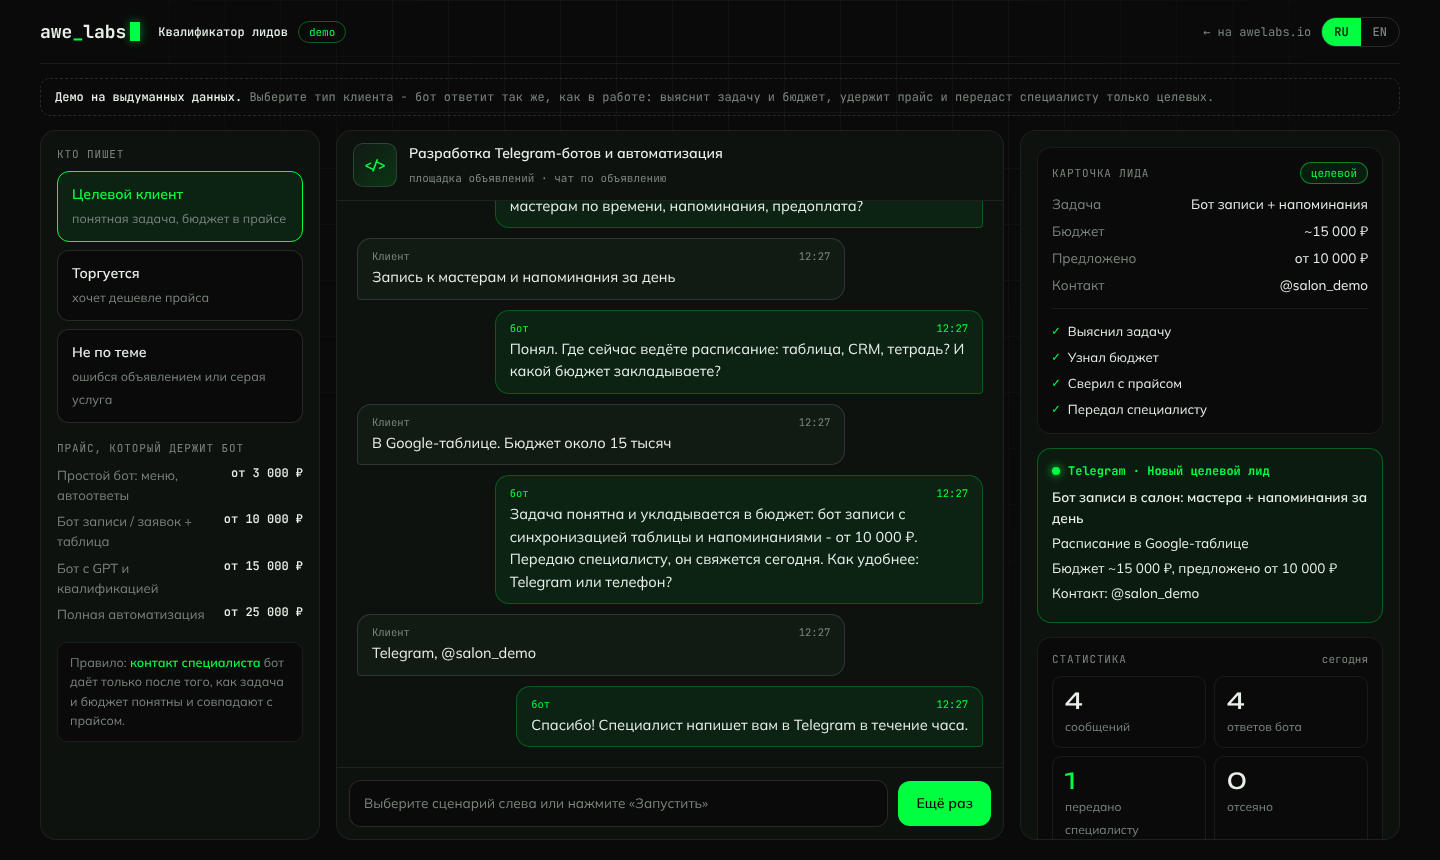
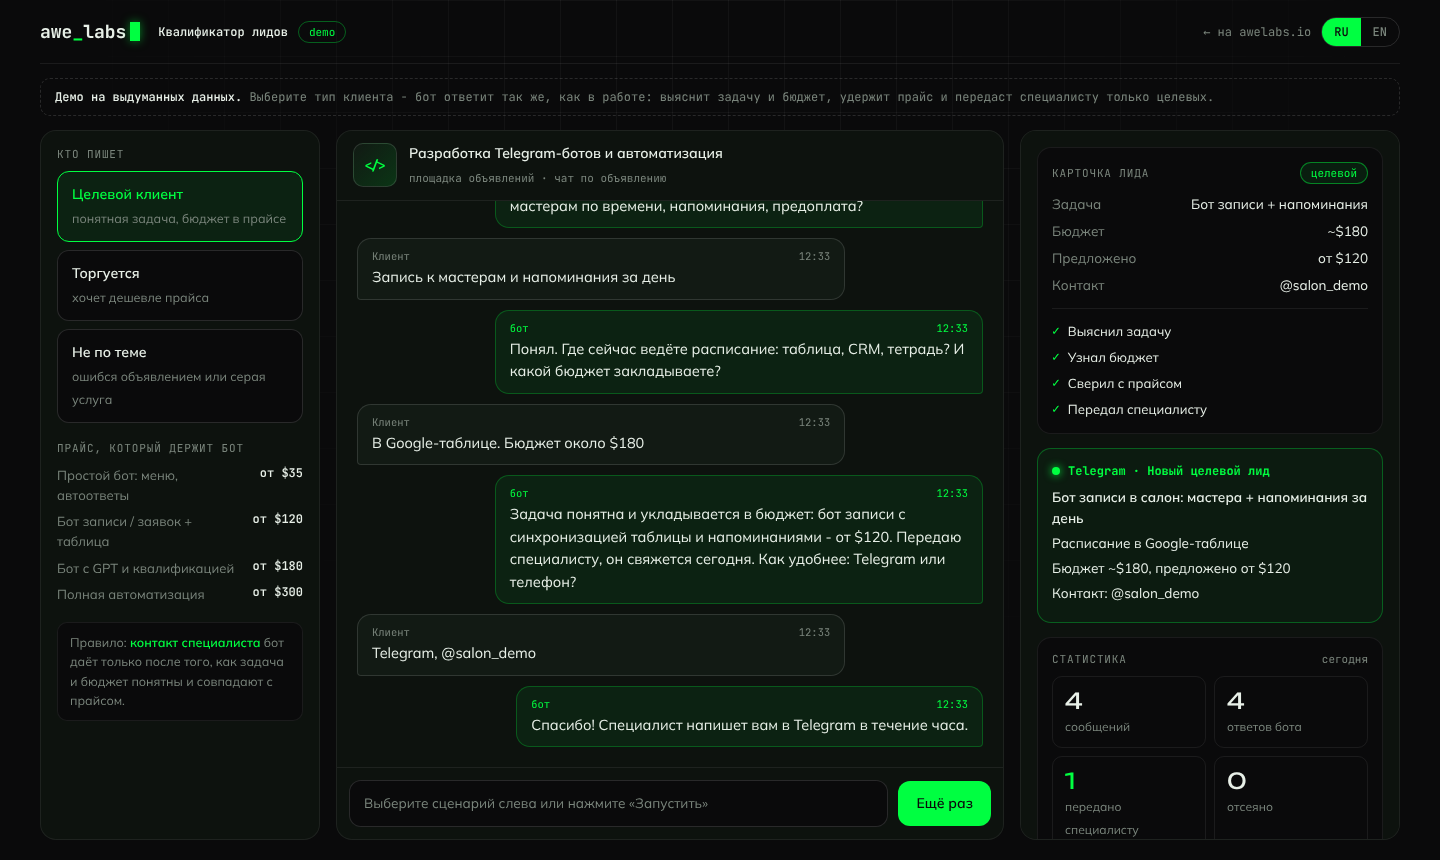
Prices in USD

diff --git a/index.html b/index.html
@@ -170,33 +170,33 @@ client:"Клиент",bot:"бот",dayL:"Сегодня",
 chk:["Выяснил задачу","Узнал бюджет","Сверил с прайсом","Передал специалисту"],
 hot:"целевой",warm:"тёплый",off:"не целевой",
 nHot:"Новый целевой лид",nWarm:"Новый лид, проверить",nOff:"Специалиста не беспокоили",
-rate:[["Простой бот: меню, автоответы","от 3 000 ₽"],["Бот записи / заявок + таблица","от 10 000 ₽"],["Бот с GPT и квалификацией","от 15 000 ₽"],["Полная автоматизация","от 25 000 ₽"]],
+rate:[["Простой бот: меню, автоответы","от $35"],["Бот записи / заявок + таблица","от $120"],["Бот с GPT и квалификацией","от $180"],["Полная автоматизация","от $300"]],
 S:[
  {id:"hot",b:"Целевой клиент",s:"понятная задача, бюджет в прайсе",lvl:"hot",
   d:[["c","Здравствуйте! Нужен бот для записи клиентов в салон"],
      ["b","Добрый день! Расскажите, что бот должен уметь: запись к мастерам по времени, напоминания, предоплата?",{t:"Бот записи"},[0]],
      ["c","Запись к мастерам и напоминания за день"],
      ["b","Понял. Где сейчас ведёте расписание: таблица, CRM, тетрадь? И какой бюджет закладываете?",{t:"Бот записи + напоминания"}],
-     ["c","В Google-таблице. Бюджет около 15 тысяч"],
-     ["b","Задача понятна и укладывается в бюджет: бот записи с синхронизацией таблицы и напоминаниями - от 10 000 ₽. Передаю специалисту, он свяжется сегодня. Как удобнее: Telegram или телефон?",{b:"~15 000 ₽",o:"от 10 000 ₽"},[1,2]],
+     ["c","В Google-таблице. Бюджет около $180"],
+     ["b","Задача понятна и укладывается в бюджет: бот записи с синхронизацией таблицы и напоминаниями - от $120. Передаю специалисту, он свяжется сегодня. Как удобнее: Telegram или телефон?",{b:"~$180",o:"от $120"},[1,2]],
      ["c","Telegram, @salon_demo"],
      ["b","Спасибо! Специалист напишет вам в Telegram в течение часа.",{c:"@salon_demo"},[3]]],
-  n:["Бот записи в салон: мастера + напоминания за день","Расписание в Google-таблице","Бюджет ~15 000 ₽, предложено от 10 000 ₽","Контакт: @salon_demo"]},
+  n:["Бот записи в салон: мастера + напоминания за день","Расписание в Google-таблице","Бюджет ~$180, предложено от $120","Контакт: @salon_demo"]},
  {id:"warm",b:"Торгуется",s:"хочет дешевле прайса",lvl:"warm",
   d:[["c","Сколько стоит бот с GPT, чтобы отвечал клиентам?"],
-     ["b","Добрый день! Бот с GPT и квалификацией заявок - от 15 000 ₽. Где он будет отвечать и сколько обращений в день?",{t:"Бот с GPT"},[0]],
-     ["c","На площадке объявлений, штук 20 в день. А за 5 тысяч сделаете?"],
-     ["b","За 5 000 ₽ реально сделать простого бота: меню и готовые автоответы, без GPT. Бот с GPT - от 15 000 ₽, это стоимость работы, скидок на неё нет. Какой вариант ближе?",{b:"5 000 ₽"},[1,2]],
+     ["b","Добрый день! Бот с GPT и квалификацией заявок - от $180. Где он будет отвечать и сколько обращений в день?",{t:"Бот с GPT"},[0]],
+     ["c","На площадке объявлений, штук 20 в день. А за $60 сделаете?"],
+     ["b","За $60 реально сделать простого бота: меню и готовые автоответы, без GPT. Бот с GPT - от $180, это стоимость работы, скидок на неё нет. Какой вариант ближе?",{b:"$60"},[1,2]],
      ["c","Давайте тогда простой"],
-     ["b","Хорошо: простой бот с меню и автоответами - от 3 000 ₽. Передаю специалисту, он уточнит сценарии. Куда вам написать?",{t:"Простой бот (вместо GPT)",o:"от 3 000 ₽"}],
+     ["b","Хорошо: простой бот с меню и автоответами - от $35. Передаю специалисту, он уточнит сценарии. Куда вам написать?",{t:"Простой бот (вместо GPT)",o:"от $35"}],
      ["c","+7 900 000-00-00"],
      ["b","Принято, специалист свяжется сегодня.",{c:"+7 900 000-00-00"},[3]]],
-  n:["Хотел бот с GPT за 5 000 ₽, прайс удержан","Согласился на простой бот, от 3 000 ₽","~20 обращений в день, площадка объявлений","Контакт: +7 900 000-00-00"]},
+  n:["Хотел бот с GPT за $60, прайс удержан","Согласился на простой бот, от $35","~20 обращений в день, площадка объявлений","Контакт: +7 900 000-00-00"]},
  {id:"off",b:"Не по теме",s:"ошибся объявлением или серая услуга",lvl:"off",
   d:[["c","Ноутбук ещё продаёте?"],
      ["b","Добрый день! Это объявление про разработку Telegram-ботов и автоматизацию, ноутбуков нет. Если понадобится бот - пишите.",{t:"Не по теме"},[]],
      ["c","А подписчиков в канал накрутить можете?"],
-     ["b","Накрутку и серые услуги не делаем. Могу предложить честный рост: автопостинг, бот-воронку, рассылку по своей базе - от 10 000 ₽.",{t:"Накрутка - отказ",o:"легальные альтернативы"}],
+     ["b","Накрутку и серые услуги не делаем. Могу предложить честный рост: автопостинг, бот-воронку, рассылку по своей базе - от $120.",{t:"Накрутка - отказ",o:"легальные альтернативы"}],
      ["c","Не, мне надо накрутка"],
      ["b","Понял, тогда не сможем помочь. Удачи!",{},[]]],
   n:null}
@@ -211,33 +211,33 @@ client:"Client",bot:"bot",dayL:"Today",
 chk:["Found out the task","Got the budget","Checked the rate card","Passed to specialist"],
 hot:"qualified",warm:"warm",off:"not a fit",
 nHot:"New qualified lead",nWarm:"New lead, check",nOff:"Specialist not disturbed",
-rate:[["Simple bot: menu, auto-replies","from $200"],["Booking / request bot + sheet","from $600"],["GPT bot with qualification","from $900"],["Full automation","from $2,000"]],
+rate:[["Simple bot: menu, auto-replies","from $35"],["Booking / request bot + sheet","from $120"],["GPT bot with qualification","from $180"],["Full automation","from $300"]],
 S:[
  {id:"hot",b:"Qualified client",s:"clear task, budget fits",lvl:"hot",
   d:[["c","Hi! I need a bot to book clients for my salon"],
      ["b","Good afternoon! What should it do: booking with stylists by time slot, reminders, prepayment?",{t:"Booking bot"},[0]],
      ["c","Booking with stylists and a reminder a day before"],
      ["b","Got it. Where do you keep the schedule now: a spreadsheet, CRM, paper? And what's your budget?",{t:"Booking bot + reminders"}],
-     ["c","In Google Sheets. Budget around $800"],
-     ["b","Clear task and it fits: booking bot synced with your sheet plus reminders - from $600. Passing you to the specialist, they'll reach out today. Telegram or phone?",{b:"~$800",o:"from $600"},[1,2]],
+     ["c","In Google Sheets. Budget around $180"],
+     ["b","Clear task and it fits: booking bot synced with your sheet plus reminders - from $120. Passing you to the specialist, they'll reach out today. Telegram or phone?",{b:"~$180",o:"from $120"},[1,2]],
      ["c","Telegram, @salon_demo"],
      ["b","Thanks! The specialist will message you on Telegram within an hour.",{c:"@salon_demo"},[3]]],
-  n:["Salon booking bot: stylists + day-before reminders","Schedule in Google Sheets","Budget ~$800, offered from $600","Contact: @salon_demo"]},
+  n:["Salon booking bot: stylists + day-before reminders","Schedule in Google Sheets","Budget ~$180, offered from $120","Contact: @salon_demo"]},
  {id:"warm",b:"Haggling",s:"wants it below the rate card",lvl:"warm",
   d:[["c","How much is a GPT bot to answer my customers?"],
-     ["b","Good afternoon! A GPT bot with lead qualification is from $900. Where will it answer and how many enquiries per day?",{t:"GPT bot"},[0]],
-     ["c","On a classifieds site, about 20 a day. Can you do it for $300?"],
-     ["b","For $300 we can build a simple bot: menu and ready auto-replies, no GPT. The GPT bot is from $900 - that's the cost of the work, no discounts on it. Which is closer to what you need?",{b:"$300"},[1,2]],
+     ["b","Good afternoon! A GPT bot with lead qualification is from $180. Where will it answer and how many enquiries per day?",{t:"GPT bot"},[0]],
+     ["c","On a classifieds site, about 20 a day. Can you do it for $60?"],
+     ["b","For $60 we can build a simple bot: menu and ready auto-replies, no GPT. The GPT bot is from $180 - that's the cost of the work, no discounts on it. Which is closer to what you need?",{b:"$60"},[1,2]],
      ["c","OK, the simple one then"],
-     ["b","Sure: simple bot with menu and auto-replies - from $200. Passing you to the specialist to agree the flows. Where can they reach you?",{t:"Simple bot (instead of GPT)",o:"from $200"}],
+     ["b","Sure: simple bot with menu and auto-replies - from $35. Passing you to the specialist to agree the flows. Where can they reach you?",{t:"Simple bot (instead of GPT)",o:"from $35"}],
      ["c","+1 555 000 0000"],
      ["b","Got it, the specialist will contact you today.",{c:"+1 555 000 0000"},[3]]],
-  n:["Wanted a GPT bot for $300, rate card held","Agreed to a simple bot, from $200","~20 enquiries/day, classifieds site","Contact: +1 555 000 0000"]},
+  n:["Wanted a GPT bot for $60, rate card held","Agreed to a simple bot, from $35","~20 enquiries/day, classifieds site","Contact: +1 555 000 0000"]},
  {id:"off",b:"Off-topic",s:"wrong listing or a grey service",lvl:"off",
   d:[["c","Is the laptop still for sale?"],
      ["b","Good afternoon! This listing is about Telegram bot development and automation - no laptops here. If you ever need a bot, write to us.",{t:"Off-topic"},[]],
      ["c","Can you boost followers for my channel?"],
-     ["b","We don't do fake followers or grey services. We can offer honest growth: auto-posting, a bot funnel, mailings to your own base - from $600.",{t:"Fake followers - declined",o:"legal alternatives"}],
+     ["b","We don't do fake followers or grey services. We can offer honest growth: auto-posting, a bot funnel, mailings to your own base - from $120.",{t:"Fake followers - declined",o:"legal alternatives"}],
      ["c","Nah, I need the boost"],
      ["b","Understood, then we can't help. Good luck!",{},[]]],
   n:null}
